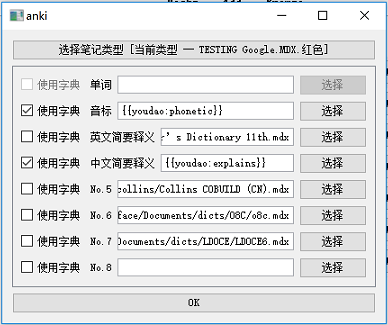
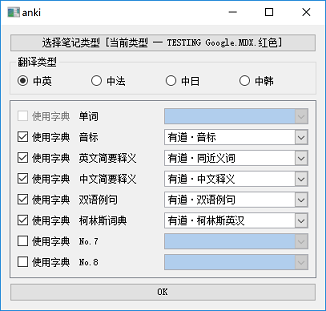
support youdao fr, jap, ko query

diff --git a/wquery/context.py b/wquery/context.py
@@ -20,9 +20,10 @@ available_youdao_fields = {
     u'有道·音标': 'phonetic', u'有道·中文释义': 'explains', u'有道·柯林斯英汉': 'collins', u'有道·21世纪': 'ec21',
     u'有道·英英释义': 'ee', u'有道·网络释义': 'web_trans', u'有道·同根词': 'rel_word', u'有道·同近义词': 'syno',
     u'有道·双语例句': 'blng_sents_part', u'有道·原生例句': 'media_sents_part', u'有道·权威例句': 'auth_sents_part',
-    u'有道·百科': 'baike'
+    u'有道·百科': 'baike', u'有道·新英汉大辞典(中)': 'ce_new', u'有道·汉语词典(中)': 'hh', u'有道·专业释义(中)': 'special',
 }
 
+youdao = 'eng'
 youdao_css = '''
     <style type="text/css">
         @charset "utf-8";a,a:active,a:hover{color:#138bff}a{cursor:pointer}body{font-size:14px}.nav-label .nav,.page,.page a{text-align:center}.emphasis,b,h4,h5{font-weight:400}.baike_detail .content,.collins h4 .title,.ec h2 span,.fanyi,strong{word-wrap:break-word}html{-webkit-text-size-adjust:none}.collins h4 .phonetic,.ec .phonetic{font-family:lucida sans unicode,arial,sans-serif}h1,h2,h3,h4,h5,input,li,ol,p,textarea,ul{margin:0;padding:0;outline:0}li,ol,ul{list-style:none}a{text-decoration:none}strong{color:#c50000}#bd{padding:7px 0;background:#f4f4f4}.p-index_entry #bd{padding:0;background:#fff}.p-index #hd{border-bottom:1px solid #e8e8e8}.content-wrp{margin:7px}#ft{padding:7px 0;background:#fff}.empty-content{padding:35px 7px;background:#fff;vertical-align:middle}#dictNav,#dictNavList{position:absolute;right:7px}.dict-dl{font-size:9pt}.page{display:block;border:1px solid #e1e1e1;border-radius:2px;background:#fff;color:#313131;-o-border-radius:2px}.page a{display:inline-block;padding:11px 0;width:49%}.dict_sents_result .col3,.source{text-align:right}.dict-container{background:#fff}.dict-container h4{padding:0 7px;border-bottom:1px solid #e1e1e1}.dict-container .trans-container{padding:7px}.dict-container .trans-title{display:block;padding:7px 0;color:#313131}.dict-dl{display:block;padding:7px;border:1px solid #e1e1e1;background-color:#fafafa}.core,.secondary,.secondaryFont{font-size:15px}#dictNav{top:350px;-webkit-transition:top .3s;transition:top .3s}#dictNavBtn{display:inline-block;overflow:hidden;padding-top:3pc;width:3pc;height:0;background:url(http://shared.ydstatic.com/dict/youdaowap/changeImg/dict_unfold_icon_normal.png) no-repeat;background-size:100%}#dictNavBtn.selected{background:url(http://shared.ydstatic.com/dict/youdaowap/changeImg/dict_unfold_icon_pressed.png) no-repeat;background-size:100%}#dictNavList{bottom:49px;display:none;overflow-y:scroll;width:200px;height:0;background:rgba(0,0,0,.7);-webkit-transition:height .5s}#dictNavList li{padding:7px 0;border-bottom:1px solid hsla(0,0%,100%,.3)}#dictNavList li a{display:inline-block;box-sizing:border-box;padding:0 7px;width:100%;color:#fff}.core,body{color:#4e4c4a}h2{margin:0;padding:0}.secondary{color:#847965}.emphasis,b{color:#9c0;font-style:italic}.clickable{color:#279aec}.grey{color:#847965}.serial{margin-right:.7em}.source{padding-top:.7em}.mcols-layout{overflow:hidden}.mcols-layout .col1{float:left;width:1.33em}.mcols-layout .col2{overflow:auto}.mcols-layout .col3{float:right;vertical-align:top}a.pronounce{display:inline-block;width:24px;height:24px;background-image:url(http://shared.ydstatic.com/dict/youdaowap/icon/dict_pronounce-_icon_normal.png);background-size:24px 24px;text-indent:-9999px;font-size:0}a.pronounce:active{background-image:url(http://shared.ydstatic.com/dict/youdaowap/icon/dict_pronounce-_icon_pressed.png)}a.pronounce.disbled{background-image:url(http://shared.ydstatic.com/dict/youdaowap/icon/dict_pronounce-_icon_disable.png)}.ec a.pronounce{vertical-align:middle}.dict-container .trans-container h4{padding:0;border:none;-webkit-tap-highlight-color:rgb(255,255,0)}.dict-container .dict_sents_result{padding:0}.dict-container .dict_sents_result .content{padding:7px}.dict_sents_result .clickable{font-size:13px}.dict_sents_result li{padding-top:.6em}.dict_sents_result li:first-child{padding-top:0}.dict_sents_result .speech-size{margin-top:-10px}.dict_sents_result .more-sents{display:block;padding:7px}.collins .star{display:inline-block;overflow:hidden;margin:0 7px;width:77px;height:13px;background:url(http://shared.ydstatic.com/dict/youdaowap/icon/dict_star_live.png);background-size:77px 13px}.collins .star1{width:14px}.collins .star2{width:28px}.collins .star3{width:45px}.collins .star4{width:61px}.collins .star5{width:77px}.cj .colExam,.ck .colExam,.jc .colExam,.kc .colExam{width:3em}.collins .per-collins-entry li{padding:.6em 0 0}.collins li .mcols-layout{padding:.4em 0 0}.collins h4 .title{overflow:hidden}.ec h2{margin-bottom:.7em;font-size:1pc;line-height:1.5em}.ec h2 .amend{float:right;text-decoration:underline}.ec h2 span{display:inline-block}.ec .sub{margin-top:.7em;padding-top:.7em}.ec .core{padding-left:.33em}.web_trans .webPhrase{margin-top:.6em}.web_trans .trans-list>li{padding:.6em 0 0}.web_trans .trans-list>li:first-child{padding-top:0}ce_new .trans-list li{padding:.7em 0 0}.ce_new .source,.ce_new>ul .per-tran{padding:.7em 0}.ce_new>ul .per-tran:first-child{border:none}.cj>ul,.ck>ul{padding-bottom:.7em}.cj h4{font-weight:700}.cj .grey{font-weight:400}.cj>h4{padding-top:.7em}.cj>h4:first-child{padding-top:0}.ck>h4{padding-top:.7em}.ck>h4:first-child{padding-top:0}.ec21 .phrs,.ec21 .posType>li,.ec21 .source,.ec21 .wfs,.ee>ul>li{padding:.7em 0}.ec21 ins{margin:0 .5em;color:#b6afa2;text-decoration:none}.ec21 .serial{margin-right:.7em}.ee .per-tran,.hh>ul li{padding:.3em 0}.ee>ul{margin-top:.7em}.fanyi{overflow:hidden}.hh>h4{padding-top:.7em}.hh>h4:first-child{padding-top:0}.hh .source{padding:.7em 0}.jc h4{font-weight:700}.jc .origin,.jc sup{font-weight:400}.jc .origin{font-size:.86em}.kc h4{font-weight:700}.loading{padding:2em;color:#4e4c4a}.rel_word>ul li{padding:.3em 0}.rel_word>ul li:first-child{padding-top:0}.special>ul>li{padding:.7em 0}.special>ul>li:first-child{padding-top:0}.special .source{padding:.7em 0}.syno>ul li{padding:.3em 0}.syno>ul li:first-child{padding-top:0}.baike .target{position:relative;display:block;padding-right:40px}.baike .source,.baike>ul li{padding:.7em 0}.baike>ul li:first-child{padding-top:0}.typo .clickable{margin-right:7px}.typo li{padding:7px 0 0}.baike_detail>h4{padding:0 0 .5em;font-size:24px}.baike_detail li{padding:.5em 0}.baike_detail p{margin-bottom:.5em}.baike_detail p:first-child{padding-bottom:.5em}.baike_detail .grey{display:block;padding:.8em 0}.baike_detail .img{clear:both;display:block;overflow:hidden;width:auto!important;font-weight:400;font-size:9pt;line-height:18px}.baike_detail .img_r{float:right;margin-left:1em}.baike_detail img{width:88px;height:auto;-webkit-border-radius:3px}.baike_detail .img strong{display:none}.baike_detail strong{display:block;padding:.5em 0}.baike_detail a,.baike_detail a b{color:#279aec}</style>

diff --git a/wquery/ui.py b/wquery/ui.py
@@ -34,7 +34,8 @@ def set_parameters():
     cbs, les, lbs = mw.myWidget.findChildren(
         QCheckBox), mw.myWidget.findChildren(QComboBox), mw.myWidget.findChildren(QLabel)
     model = _get_model_byId(c.model_id)
-    c.maps = [{"checked": cb.isChecked(), "dict_path": le.currentText().strip(), "fld_ord": _get_ord_from_fldname(model, lb.text())}
+    c.maps = [{"checked": cb.isChecked(), "dict_path": le.currentText().strip(),
+               "fld_ord": _get_ord_from_fldname(model, lb.text()), "youdao": c.youdao}
               for (cb, le, lb) in zip(cbs, les, lbs)]
     # update mappings
     c.mappings[c.model_id] = c.maps
@@ -175,6 +176,26 @@ def add_dict_layout(i, **kwargs):
     mw.myWidget.setLayout(mw.myMainLayout)
 
 
+def youdao_eng_clicked(checked):
+    if checked:
+        c.youdao = 'eng'
+
+
+def youdao_fr_clicked(checked):
+    if checked:
+        c.youdao = 'fr'
+
+
+def youdao_jap_clicked(checked):
+    if checked:
+        c.youdao = 'jap'
+
+
+def youdao_ko_clicked(checked):
+    if checked:
+        c.youdao = 'ko'
+
+
 def show_options():
     wquery.read_parameters()
     mw.myWidget = widget = QWidget()
@@ -186,7 +207,6 @@ def show_options():
     dicts_widget.setLayout(dicts_layout)
     scroll_area.setWidget(dicts_widget)
     scroll_area.setWidgetResizable(True)
-    mw.signal_mapper_sel = QSignalMapper(mw.myWidget)
     mw.signal_mapper_chk = QSignalMapper(mw.myWidget)
     # mw.myModelNameLabel = QLabel(u"笔记类型")
     mw.myChooseButton = models_button = QPushButton(u"选择笔记类型")
@@ -199,9 +219,27 @@ def show_options():
             # build fields -- dicts layout
             if c.maps:
                 build_layout()
+    youdao_check_group = QGroupBox(u"翻译类型")
+    youdao_layout = QHBoxLayout()
+    eng_check, fr_check, jap_check, ko_check = QRadioButton(
+        u"中英"), QRadioButton(u"中法"), QRadioButton(u"中日"), QRadioButton(u"中韩")
+    youdao_layout.addWidget(eng_check)
+    youdao_layout.addWidget(fr_check)
+    youdao_layout.addWidget(jap_check)
+    youdao_layout.addWidget(ko_check)
+    youdao_type_maps = {'eng': eng_check, 'fr': fr_check,
+                        'jap': jap_check, 'ko': ko_check}
+    youdao_type = c.maps[0].get('youdao', 'eng')
+    youdao_type_maps[youdao_type].setChecked(True)
+    eng_check.clicked.connect(youdao_eng_clicked)
+    fr_check.clicked.connect(youdao_fr_clicked)
+    jap_check.clicked.connect(youdao_jap_clicked)
+    ko_check.clicked.connect(youdao_ko_clicked)
+    youdao_check_group.setLayout(youdao_layout)
     ok_button = QPushButton(u"OK")
     ok_button.clicked.connect(btn_ok_pressed)
     main_layout.addLayout(models_layout)
+    main_layout.addWidget(youdao_check_group)
     main_layout.addWidget(scroll_area)
     # main_layout.addLayout(dicts_layout)
     main_layout.addWidget(ok_button)

diff --git a/wquery/query.py b/wquery/query.py
@@ -95,7 +95,8 @@ def query_from_editor():
     if not editor:
         return
     c.model_id = editor.note.model()['id']
-    word = editor.note.fields[0]
+    word = editor.note.fields[0].decode('utf-8')
+    # showInfo(word.decode('utf-8'))
     c.maps = c.mappings[c.model_id]
     mw.progress.start(immediate=True, label="Querying...")
     for i, res in query_all_flds(word):
@@ -152,9 +153,10 @@ def query_youdao_api(word, fld):
     if word in c.online_cache:
         return c.online_cache[word][fld]
     phonetics, explains = '', ''
+    mw.progress.update(label="Query Youdao {{%s}} ..." % fld)
     try:
         result = urllib2.urlopen(
-            "http://dict.youdao.com/fsearch?client=deskdict&keyfrom=chrome.extension&pos=-1&doctype=xml&xmlVersion=3.2&dogVersion=1.0&vendor=unknown&appVer=3.1.17.4208&le=eng&q=%s" % word, timeout=5).read()
+            "http://dict.youdao.com/fsearch?client=deskdict&keyfrom=chrome.extension&pos=-1&doctype=xml&xmlVersion=3.2&dogVersion=1.0&vendor=unknown&appVer=3.1.17.4208&le=%s&q=%s" % (c.maps[0].get('youdao', 'eng'), word), timeout=5).read()
         # showInfo(str(result))
         doc = xml.etree.ElementTree.fromstring(result)
         # fetch symbols
@@ -179,8 +181,9 @@ def query_youdao_api(word, fld):
 def query_youdao_web(word, single_dict):
     mw.progress.update(label="Query Youdao {{%s}} ..." % single_dict)
     try:
+        # eng, fr,jap,ko
         result = urllib2.urlopen(
-            "http://m.youdao.com/singledict?q=%s&dict=%s&more=false" % (word, single_dict), timeout=5).read()
+            "http://m.youdao.com/singledict?q=%s&dict=%s&le=%s&more=false" % (word, single_dict, c.maps[0].get('youdao', 'eng')), timeout=5).read()
         return c.youdao_css + '<div id="collins_contentWrp" class="content-wrp dict-container"><div id="collins" class="trans-container collins ">%s</div></div>' % result
     except:
         return ''

diff --git a/README.md b/README.md
@@ -25,26 +25,23 @@
 
 1. “工具”菜单-->"Word Query"，弹出设置界面，点击“选择笔记类型”按钮，设定笔记模板
 
+2. 设置有道词典类型：支持中英，中法，中日，中韩
+
+   ![](screenshots/cn.png)
+
+   ![](screenshots/fr.png)
+
+   ![](screenshots/jap.png)
+
+
 3. 对笔记模板的每个字段设定是否需要使用字典，以及字典路径
 
    字典路径可以为本地mdx文件，远程mdx server地址或者有道在线词典解释字段。
 
-   有道字段设置如下：
-   - 音标：{{youdao:phonetic}}
-   - 解释：{{youdao:explains}}
-   - 柯林斯词典: {{youdao:collins}}
-   - 21世纪词典: {{youdao:ec21}}
-   - 英英解释: {{youdao:ee}}
-   - 网络释义: {{youdao:web_trans}}
-   - 同根词: {{youdao:rel_word}}
-   - 同近义词: {{youdao:syno}}
-   - 双语例句: {{youdao:blng_sents_part}}
-   - 权威例句: {{youdao:auth_sents_part}}
-   - 百科: {{youdao:baike}}
-
    ![](screenshots/sp_youdao.png)
 
-   mdx server部署方式：  
+   
+   mdx server部署方式参考：  
 
     - [你家老黄](https://ninja33.github.io/) - MDX server  
     - [mmjang](https://github.com/mmjang/mdict-query) -  mdict-query
